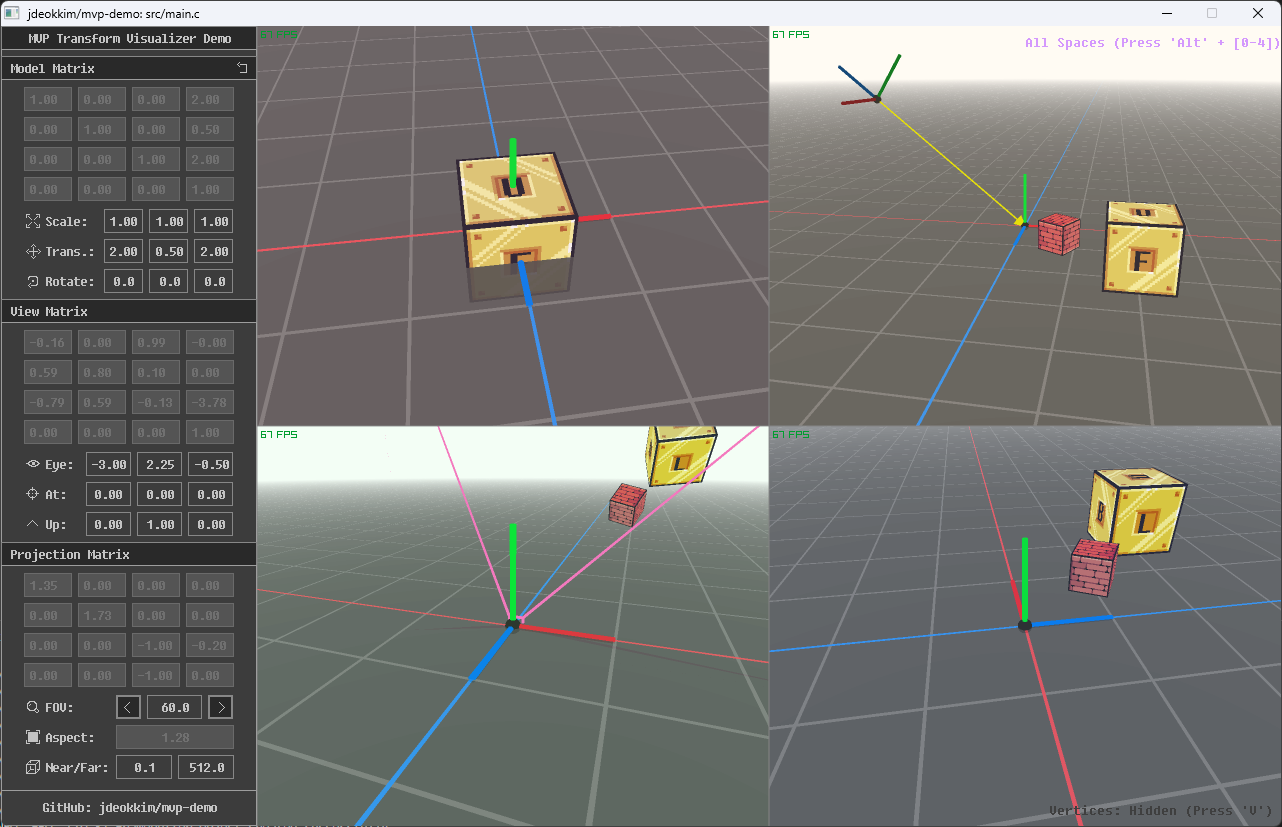
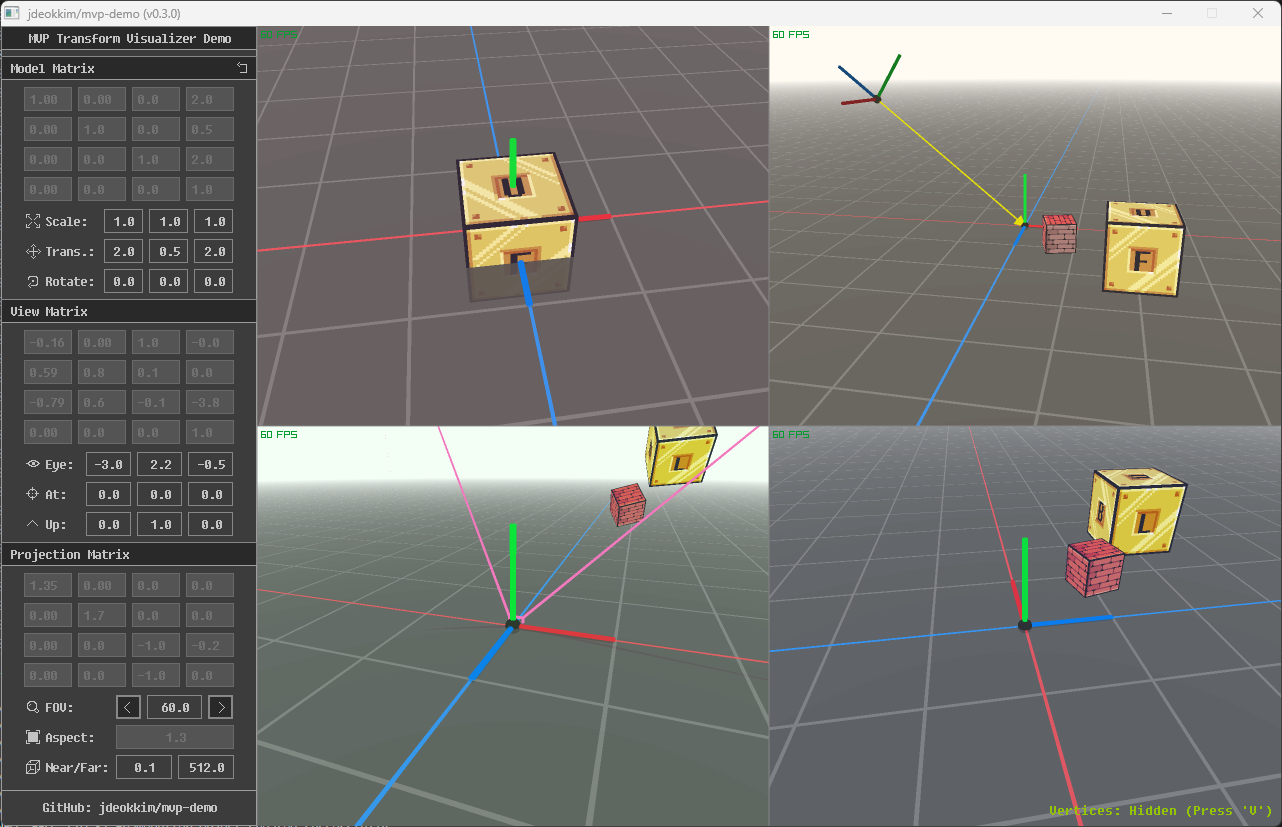
Bump version to v0.3.0

diff --git a/src/game.c b/src/game.c
@@ -741,8 +741,8 @@ static void DrawGuiArea(void) {
                         NULL,
                         guiModelMatTransValueText[i],
                         &guiModelMatTransValues[i],
-                        -8.0f,
-                        8.0f,
+                        -4.0f,
+                        4.0f,
                         guiModelMatTransValueBoxEnabled[i])) {
                     if (guiModelMatTransValueBoxEnabled[i])
                         UpdateModelMatrix(true);
@@ -793,8 +793,8 @@ static void DrawGuiArea(void) {
                         NULL,
                         guiViewMatEyeValueText[i],
                         &guiViewMatEyeValues[i],
-                        -8.0f,
-                        8.0f,
+                        -4.0f,
+                        4.0f,
                         guiViewMatEyeValueBoxEnabled[i])) {
                     if (guiViewMatEyeValueBoxEnabled[i]) UpdateViewMatrix(true);
 
@@ -809,8 +809,8 @@ static void DrawGuiArea(void) {
                                               NULL,
                                               guiViewMatAtValueText[i],
                                               &guiViewMatAtValues[i],
-                                              -8.0f,
-                                              8.0f,
+                                              -4.0f,
+                                              4.0f,
                                               guiViewMatAtValueBoxEnabled[i])) {
                     if (guiViewMatAtValueBoxEnabled[i]) UpdateViewMatrix(true);
 
@@ -825,8 +825,8 @@ static void DrawGuiArea(void) {
                                               NULL,
                                               guiViewMatUpValueText[i],
                                               &guiViewMatUpValues[i],
-                                              -8.0f,
-                                              8.0f,
+                                              -4.0f,
+                                              4.0f,
                                               guiViewMatUpValueBoxEnabled[i])) {
                     if (guiViewMatUpValueBoxEnabled[i]) UpdateViewMatrix(true);
 
@@ -1251,14 +1251,14 @@ static Model GeneratePlayerModel(void) {
             .position = { .x = mesh->vertices[(3 * i)],
                           .y = mesh->vertices[(3 * i) + 1],
                           .z = mesh->vertices[(3 * i) + 2] },
-            .color = GetColor(0x005A6CFF + (i * 0x00000D00))
+            .color = GetColor(0xFF4F81FF + (i * 0x00010000))
         };
 
         gameObjects[OBJ_TYPE_PLAYER].vertexData[i + 4] = (VertexData) {
             .position = { .x = mesh->vertices[60 + (3 * i)],
                           .y = mesh->vertices[60 + ((3 * i) + 1)],
                           .z = mesh->vertices[60 + ((3 * i) + 2)] },
-            .color = GetColor(0x102E50FF + (i * 0x00001000))
+            .color = GetColor(0x1A1A40FF + (i * 0x00001000))
         };
     }
 

diff --git a/include/mvp-demo.h b/include/mvp-demo.h
@@ -44,7 +44,7 @@ extern "C" {
 // clang-format off
 
 /* 프로그램 버전 */
-#define DEMO_VERSION                        "v0.3.0-dev.2"
+#define DEMO_VERSION                        "v0.3.0"
 
 /* ========================================================================= */
 
@@ -56,7 +56,9 @@ extern "C" {
 #define SCREEN_HEIGHT                       800
 
 /* 게임 창의 이름 */
-#define WINDOW_TITLE                        "jdeokkim/mvp-demo: " __FILE__
+#define WINDOW_TITLE                        "jdeokkim/mvp-demo (" \
+                                                DEMO_VERSION      \
+                                            ")"
 
 /* 가상 카메라의 "FOV" 최솟값 */
 #define CAMERA_FOV_MIN_VALUE                1.0f
